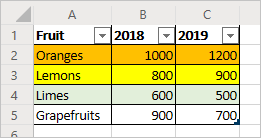
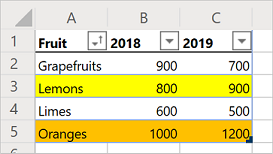
Update tutorial (#59)
* Removing TableStyle from tutorial

* Fixing spacing

diff --git a/docs/tutorials/excel-tutorial.md b/docs/tutorials/excel-tutorial.md
@@ -1,7 +1,7 @@
 ---
 title: 'Record, edit, and create Office Scripts in Excel on the web'
 description: 'A tutorial teaching the basics of writing and editing Office Scripts.'
-ms.date: 12/12/2019
+ms.date: 12/13/2019
 localization_priority: Normal
 ---
 
@@ -93,10 +93,10 @@ Let's convert this fruit sales data into a table. We'll use our script for the e
     let table = selectedSheet.tables.add("A1:C5", true);
     ```
 
-2. That call returns a `Table` object. Let's use that table to change the style. Changing the table style won't change the formatting we've already added. Instead, it will format the cell borders and other rows. Add the following line after the table creation:
+2. That call returns a `Table` object. Let's use that table to sort the data. We'll sort the data in ascending order based on the values in the "Fruit" column. Add the following line after the table creation:
 
     ```TypeScript
-    table.style = "TableStyleLight21";
+    table.sort.apply([{ key: 0, ascending: true }]);
     ```
 
     Your script should look like this:
@@ -110,13 +110,15 @@ Let's convert this fruit sales data into a table. We'll use our script for the e
       selectedSheet.getRange("A2:C2").format.fill.color = "FFC000";
       selectedSheet.getRange("A3:C3").format.fill.color = "yellow";
       let table = selectedSheet.tables.add("A1:C5", true);
-      table.style = "TableStyleLight21";
+      table.sort.apply([{ key: 0, ascending: true }]);
     }
     ```
 
+    Tables have a `TableSort` object, accessed through the `Table.sort` property. You can apply sorting criteria to that object. The `apply` method takes in an array of `SortField` objects. In this case, we only have one sorting criteria, so we only use one `SortField`. `key: 0` sets the column with the sort-defining values to "0" (which is the first column on the table, **A** in this case). `ascending: true` sorts the data in ascending order (instead of descending order).
+
 3. Run the script. You should see a table like this:
 
-    ![A fruit sales table using the light-21 table style.](../images/tutorial-3.png)
+    ![A sorted fruit sales table.](../images/tutorial-3.png)
 
     > [!NOTE]
     > If you re-run the script, you'll get an error. This is because you cannot create a table on top of another table. However, you can run the script on a different worksheet or workbook.
@@ -171,13 +173,13 @@ Over the rest of the tutorial, we will normalize this data using a script. First
 5. Now let's read a value from one of the number columns. Add the following code to the end of the script:
 
     ```TypeScript
-      // Get the value of cell D2.
-      let range = selectedSheet.getRange("D2");
-      range.load("values");
-      await context.sync();
+    // Get the value of cell D2.
+    let range = selectedSheet.getRange("D2");
+    range.load("values");
+    await context.sync();
   
-      // Print the value of D2.
-      console.log(range.values);
+    // Print the value of D2.
+    console.log(range.values);
     ```
 
     Note the calls to `load` and `sync`. You can learn the details of those methods in [Scripting Fundamentals for Office Scripts in Excel on the web](../develop/scripting-fundamentals.md#sync-and-load). For now, know that you must request data to be read and then sync your script with the workbook to read that data.
@@ -197,8 +199,8 @@ Now that we can read data, let's use that data to modify the workbook. We'll mak
 1. Add the following code to the end of the script:
 
     ```TypeScript
-      // Run the `Math.abs` function with the value at D2 and apply that value back to D2.
-      range.values = [[Math.abs(range.values[0][0])]];
+    // Run the `Math.abs` function with the value at D2 and apply that value back to D2.
+    range.values = [[Math.abs(range.values[0][0])]];
     ```
 
 2. The value of cell **D2** should now be positive.
@@ -229,23 +231,23 @@ Now that we know how to read and write to a single cell, let's generalize the sc
     Note that the array defining cell locations is zero-based. That means cell **A1** is `range[0][0]`.
 
     ```TypeScript
-      // Get the values of the used range.
-      let range = selectedSheet.getUsedRange();
-      range.load("rowCount,values");
-      await context.sync();
+    // Get the values of the used range.
+    let range = selectedSheet.getUsedRange();
+    range.load("rowCount,values");
+    await context.sync();
 
-      // Iterate over the fourth and fifth columns and set their values to their absolute value.
-      for (let i = 1; i < range.rowCount; i++) {
-        // The column at index 3 is column "4" in the worksheet.
-        if (range.values[i][3] != 0) {
-          selectedSheet.getCell(i,3).values = [[Math.abs(range.values[i][3])]];
-        }
-
-        // The column at index 4 is column "5" in the worksheet.
-        if (range.values[i][4] != 0) {
-          selectedSheet.getCell(i,4).values = [[Math.abs(range.values[i][4])]];
-        }
+    // Iterate over the fourth and fifth columns and set their values to their absolute value.
+    for (let i = 1; i < range.rowCount; i++) {
+      // The column at index 3 is column "4" in the worksheet.
+      if (range.values[i][3] != 0) {
+        selectedSheet.getCell(i,3).values = [[Math.abs(range.values[i][3])]];
       }
+
+      // The column at index 4 is column "5" in the worksheet.
+      if (range.values[i][4] != 0) {
+        selectedSheet.getCell(i,4).values = [[Math.abs(range.values[i][4])]];
+      }
+    }
     ```
 
     This portion of the script does several important tasks. First, it loads the values and row count of the used range. This lets us look at values and know when to stop. Second, it iterates through the used range, checking each cell in the **Debit** or **Credit** columns. Finally, if the value in the cell is not 0, it is replaced by its absolute value. We're avoiding zeroes so we can leave the blank cells as they were.
